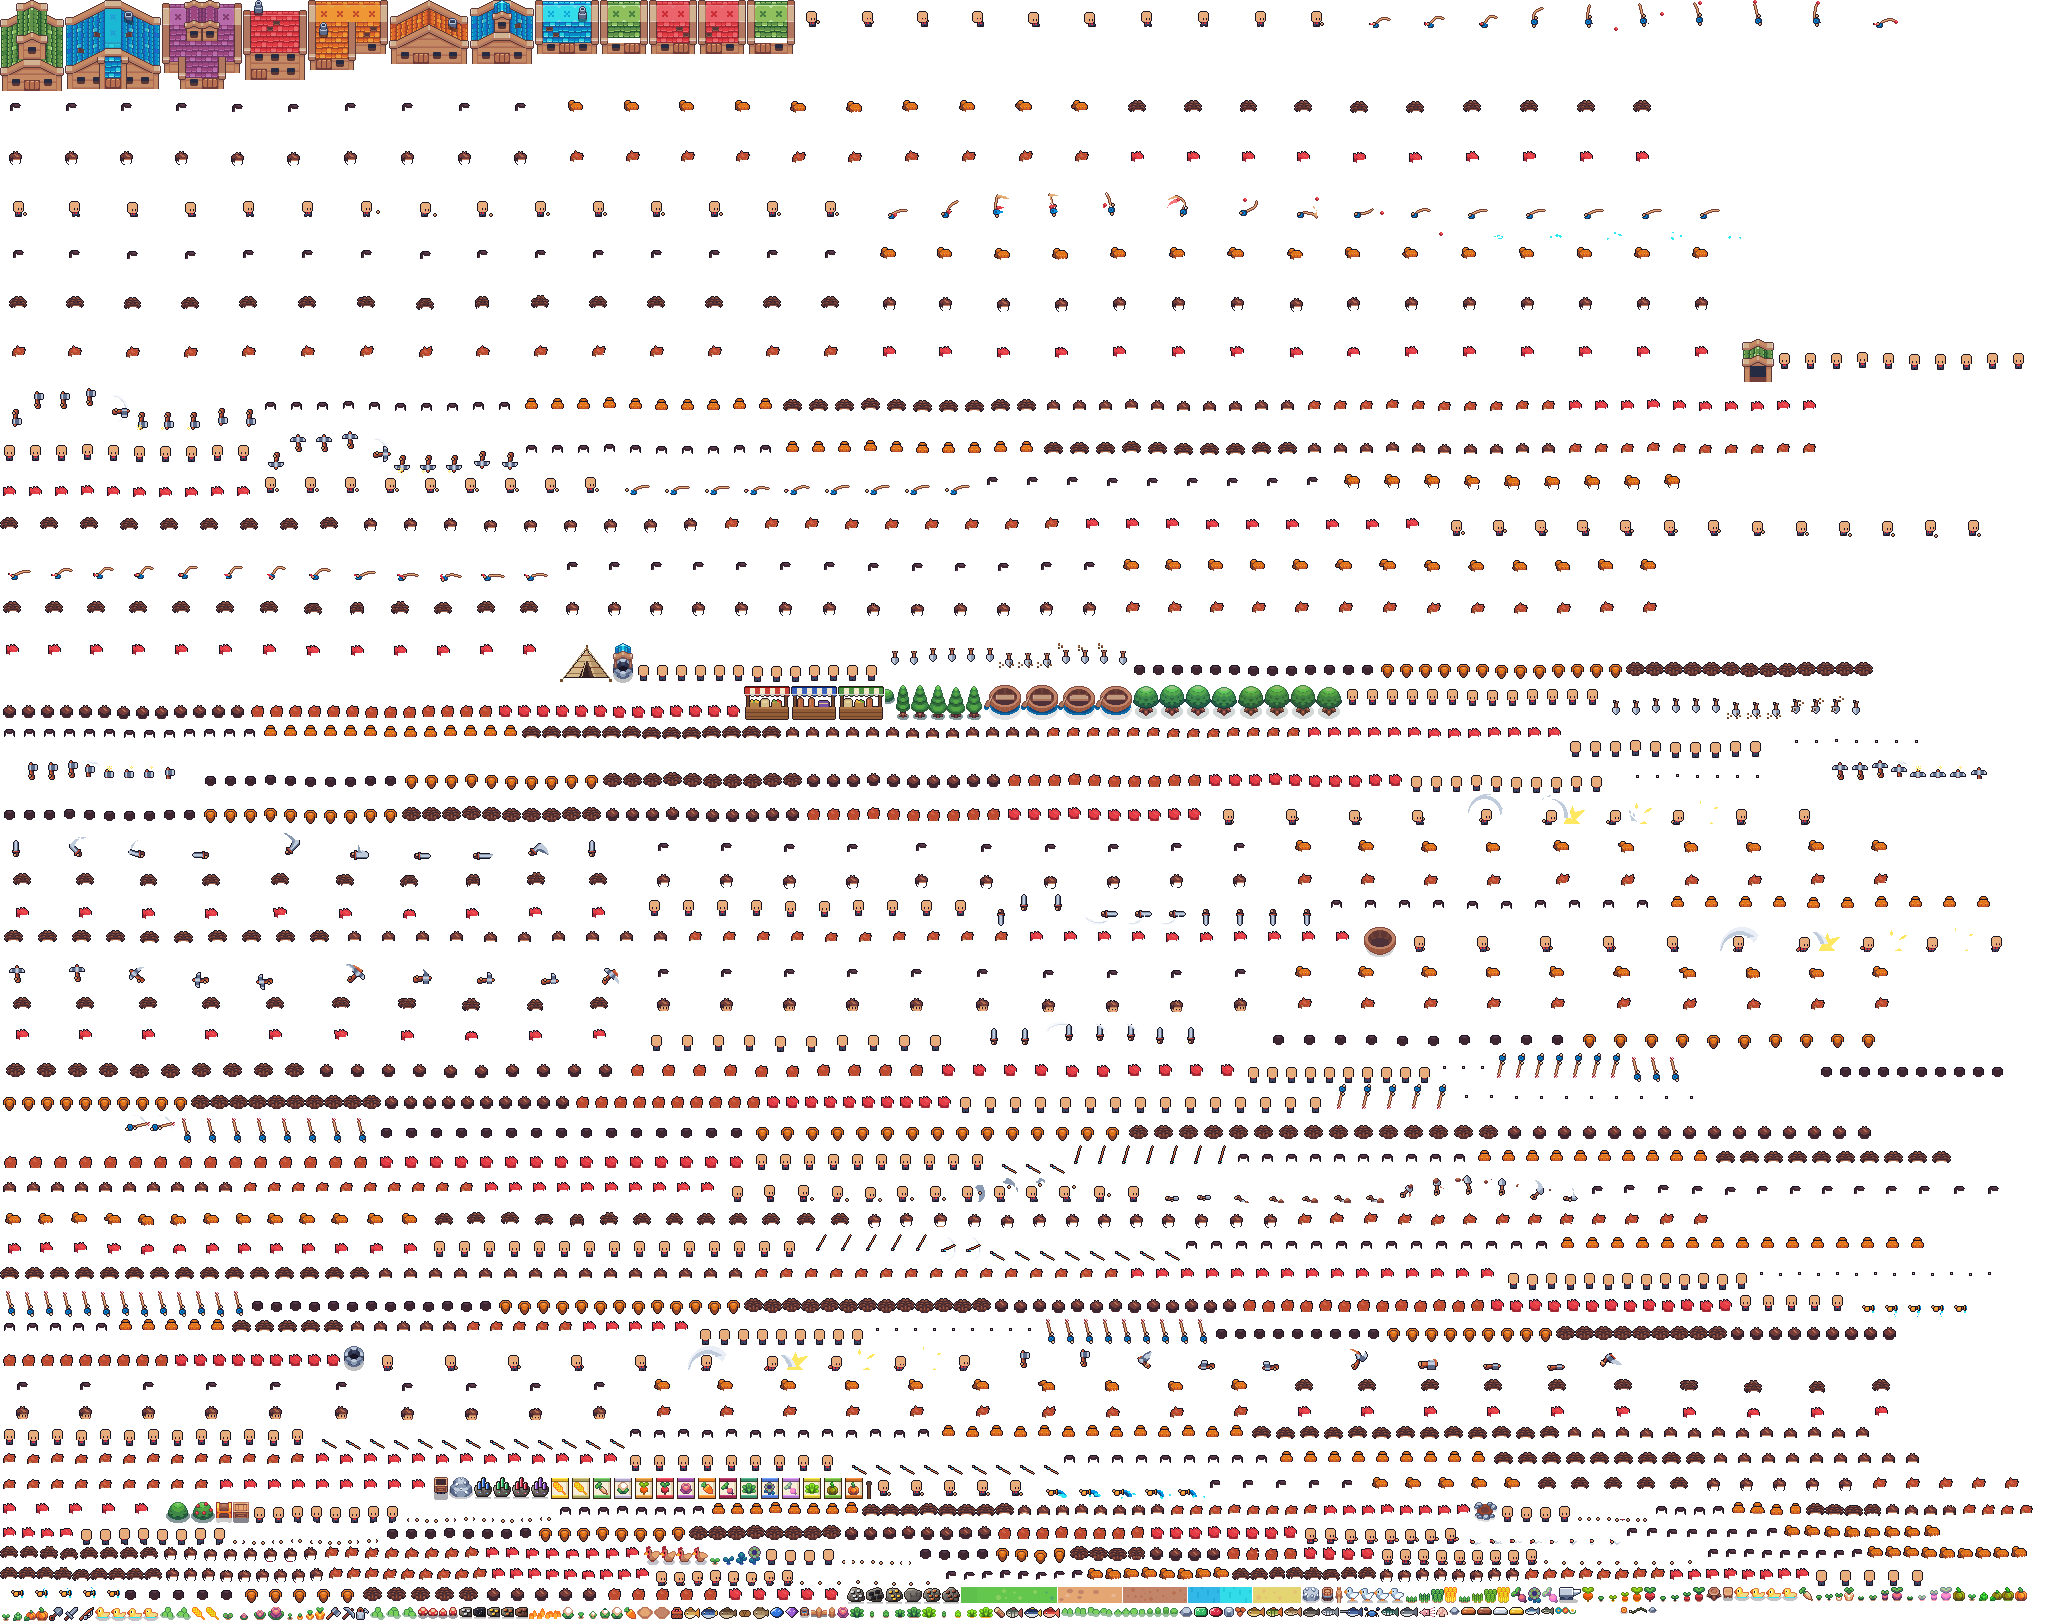
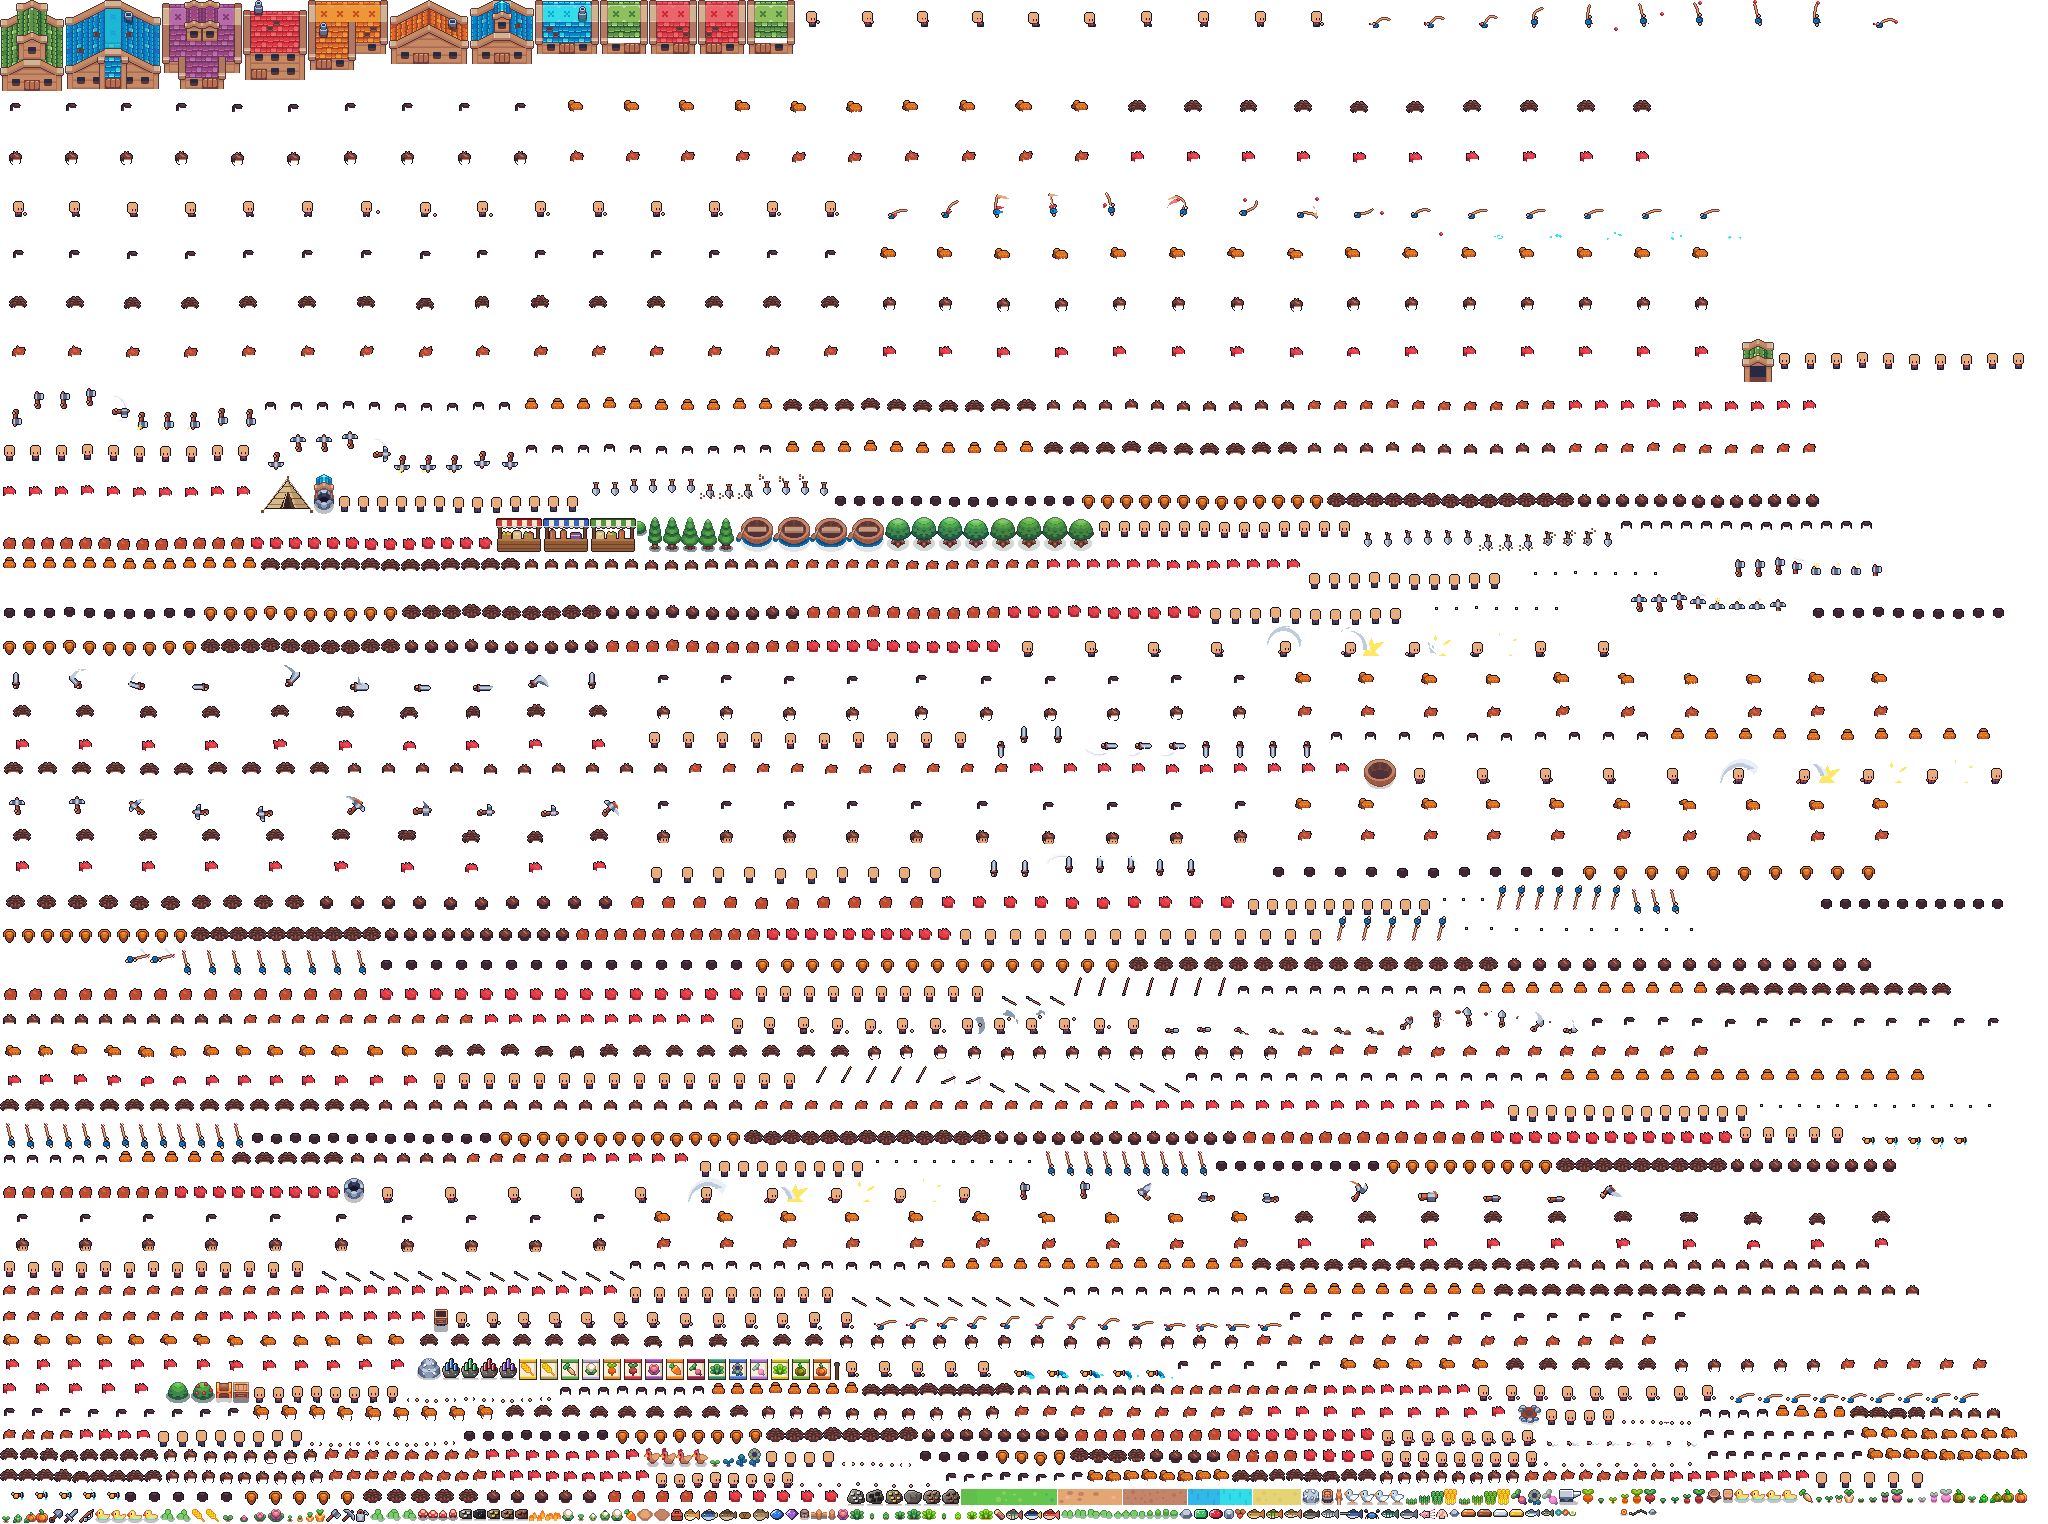
18-day seasons, energy rebalance, fishing line meets the bobber
Claude-Session: https://claude.ai/code/session_01C2kAzymCygSubPfDnKkPKq

diff --git a/public/js/game.js b/public/js/game.js
@@ -1,7 +1,7 @@
 // My Little Promise Land — the game: player, tools, time, HUD, input, saving, main loop.
 'use strict';
 const SAVE_KEY = 'mlpl_save_v1';
-const SEASONS = ['Spring', 'Summer', 'Autumn', 'Winter'], WEEK = ['Sun', 'Mon', 'Tue', 'Wed', 'Thu', 'Fri', 'Sabbath'], DAYS_PER_SEASON = 12;
+const SEASONS = ['Spring', 'Summer', 'Autumn', 'Winter'], WEEK = ['Sun', 'Mon', 'Tue', 'Wed', 'Thu', 'Fri', 'Sabbath'], DAYS_PER_SEASON = 18;
 const ITEMS = {
   axe: { n: 'Axe', icon: 'ic_axe', tool: 'axe', d: 'Chops trees, stumps and branches.' },
   pick: { n: 'Pickaxe', icon: 'ic_pick', tool: 'pick', d: 'Breaks stones and boulders.' },
@@ -11,7 +11,7 @@ const ITEMS = {
   fiber: { n: 'Fiber', icon: 'ic_fiber', price: 1, d: 'Plant fibers from weeds. Used for rope and cloth.' },
 };
 Object.assign(ITEMS, farmItems(), townItems(), fishItems(), mineItems()); Object.assign(ITEMS, barItems(), decorItems(), craftItems(), relicItems());
-const TOOL_ANIM = { axe: 'axe', pick: 'mining', scythe: 'attack', hoe: 'dig', can: 'watering' }, TOOL_COST = { axe: 1, pick: 1, scythe: 0, hoe: 1, can: 1 }, TOOL_SPEED = { dig: 24, watering: 10 };
+const TOOL_ANIM = { axe: 'axe', pick: 'mining', scythe: 'attack', hoe: 'dig', can: 'watering' }, TOOL_COST = { axe: 1.5, pick: 1.5, scythe: 0, hoe: 1, can: 1 }, TOOL_SPEED = { dig: 24, watering: 10 };
 const INV_SIZE = 24, HOTBAR = 8;
 
 let state = null, player = null, look = null, drops = [], parts = [], notes = [], falling = [], birds = [];
@@ -125,13 +125,20 @@ async function action() {
   if (item && item.seed) { const c = findCell(canPlant); if (c) { faceToward(c.x, c.y); plant(c, state.sel) } else { toast('Plant seeds in soil you have dug with the hoe.'); sfx.no() } return }
   const tool = item && item.tool; if (!tool) { sfx.no(); return }
   if (tool === 'rod') { startFishing(); return }
-  let cell = null, cost = TOOL_COST[tool];
+  let cell = null, cost = toolCost(tool);
   if (tool === 'hoe' || tool === 'can') { cell = toolCell(item); if (tool === 'can' && cell && isWater(cell.x, cell.y)) cost = 0 }
   if (state.energy < cost) { toast('Too tired… go to your tent and sleep.'); sfx.no(); return }
   if (player.dir === 'l' || player.dir === 'r') player.side = player.dir === 'l' ? -1 : 1;
   const anim = TOOL_ANIM[tool], n = ATMETA.char.counts[anim];
   player.act = { anim, t: 0, dur: n / (TOOL_SPEED[anim] || 16), hitAt: tool === 'scythe' ? .3 : tool === 'can' ? .4 : .55, hit: false, tool, cell };
   state.energy = Math.max(0, state.energy - cost);
+}
+// energy per swing: axe and pickaxe get 15% lighter with each upgrade; the hoe and watering can work a longer row when upgraded, and each extra tile costs half a point
+function toolCost(tool) {
+  const lv = toolLv(tool) || 1;
+  if (tool === 'axe' || tool === 'pick') return +(TOOL_COST[tool] * Math.pow(.85, lv - 1)).toFixed(2);
+  if (tool === 'hoe' || tool === 'can') return TOOL_COST[tool] + (rowLen(tool) - 1) * .5;
+  return TOOL_COST[tool] || 0;
 }
 function hit(tool, act) {
   const [rdx, rdy] = faceVec(), row = c => Array.from({ length: rowLen(tool) }, (_, k) => ({ x: c.x + rdx * k, y: c.y + rdy * k }));

diff --git a/public/js/jordan.js b/public/js/jordan.js
@@ -202,6 +202,7 @@ let fishing = null;
 const isNight = () => state.time >= 18 * 60 || state.time < 5 * 60;
 // the fishing animations draw the line themselves; it always lands this far from your feet (pixels), to the side you face
 const LINE_END = [29.5, 21];
+const FISH_COST = 5;   // each cast (Stardew's 8 out of 270, scaled to our 150 max)
 function lineSpot(side) {
   const wx = player.x + side * LINE_END[0] / 16, wy = player.y + LINE_END[1] / 16, x = Math.floor(wx), y = Math.floor(wy);
   if (!inb(x, y)) return null; const o = World.objs[idx(x, y)];
@@ -225,10 +226,10 @@ function startFishing() {
   let side = 0, c = ns ? lineSpotNS(ns) : null, dir = c ? ns : null;
   if (!c) { const pref = player.dir === 'l' ? [-1] : player.dir === 'r' ? [1] : [player.side || 1, -(player.side || 1)]; for (const sd of pref) { c = lineSpot(sd); if (c) { side = sd; break } } }
   if (!c) { toast('Stand at the edge of the water, facing it, to cast.'); sfx.no(); return }
-  if (state.energy < 2) { toast('Too tired to fish… go and sleep.'); sfx.no(); return }
+  if (state.energy < FISH_COST) { toast('Too tired to fish… go and sleep.'); sfx.no(); return }
   const where = fishWhere(c);
   if (where === 'sea' && rodLv() < 2) { say('Your line would snap out here in the deep sea. Deep-sea fish need a Sturdy Rod. Peter sells them at the dock.'); sfx.no(); return }
-  state.energy -= 2; if (!dir) { player.side = side; player.dir = side < 0 ? 'l' : 'r' }
+  state.energy -= FISH_COST; if (!dir) { player.side = side; player.dir = side < 0 ? 'l' : 'r' }
   const bait = count('bait') > 0; if (bait) takeItem('bait', 1);
   fishing = { phase: 'cast', t: 0, tx: c.wx, ty: c.wy, dir, where, speed: RODS[rodLv()].bite * (bait ? .5 : 1) }; sfx.swish();
 }
@@ -312,6 +313,12 @@ function closeCatch() { sfx.tap(); stopFishing() }
 // float, splashes, the fish leaping out on the yank, and the "!" (world pixels, drawn with the player)
 function drawFishing(g) {
   const f = fishing; if (!f) return; const p = player, bx = f.tx * 16, by = f.ty * 16;
+  if (!f.dir && ['wait', 'bite', 'game'].includes(f.phase)) {   // facing sideways: the line runs from the rod tip in this exact frame to the bobber
+    const [an, fr] = fishAnim(), L = ATMETA.char.sidetip && ATMETA.char.sidetip[an];
+    if (L) { const tip = L[fr % L.length], x0 = p.x * 16 + tip[0] * (p.side < 0 ? -1 : 1), y0 = p.y * 16 + tip[1], x1 = bx + (f.phase === 'game' ? Math.sin(GT * 9) * 3 : 0), y1 = by + (f.phase === 'bite' ? 2 : 0);
+      g.fillStyle = 'rgba(245,245,245,.9)'; const n = Math.max(4, Math.ceil(Math.hypot(x1 - x0, y1 - y0)));
+      for (let i = 0; i <= n; i++) { const k = i / n, sag = Math.sin(k * Math.PI) * (f.phase === 'game' ? .5 : 3); g.fillRect(Math.round(x0 + (x1 - x0) * k), Math.round(y0 + (y1 - y0) * k + sag), 1, 1) } }
+  }
   if (f.dir) {   // facing up or down the line is drawn here, from the rod tip to the bobber
     const tip = ATMETA.char.rodtip[f.dir], x0 = p.x * 16 + tip[0], y0 = p.y * 16 + tip[1];
     let x1 = bx, y1 = by, show = ['wait', 'bite', 'game'].includes(f.phase);

diff --git a/public/sw.js b/public/sw.js
@@ -1,5 +1,5 @@
 // Network first, fall back to cache so the game still opens offline.
-const CACHE='mlpl-v49';
+const CACHE='mlpl-v50';
 self.addEventListener('install',e=>self.skipWaiting());
 self.addEventListener('activate',e=>e.waitUntil(caches.keys().then(ks=>Promise.all(ks.filter(k=>k!==CACHE).map(k=>caches.delete(k)))).then(()=>self.clients.claim())));
 self.addEventListener('fetch',e=>{if(e.request.method!=='GET')return;e.respondWith(fetch(e.request).then(r=>{const c=r.clone();caches.open(CACHE).then(ca=>ca.put(e.request,c));return r}).catch(()=>caches.match(e.request)))});

diff --git a/tools/build_atlas.py b/tools/build_atlas.py
@@ -284,7 +284,7 @@ HAIRS = ['short hair', 'long hair', 'curly hair', 'bowl hair', 'mop hair', 'spik
 ANIMS = [('idle_s', 'idle-s'), ('idle_n', 'idle-n'), ('idle', 'idle'), ('walk_s', 'walk-s'), ('walk_n', 'walk-n'), ('walk', 'walk'),
          ('axe', 'axe'), ('mining', 'mining'), ('attack', 'attack'), ('doing', 'doing'), ('watering', 'watering'), ('dig', 'dig'),
          ('casting', 'casting'), ('waiting', 'waiting'), ('reeling', 'reeling'), ('caught', 'caught')]
-CH = {}
+CH = {}; SIDE_TIP = {}
 for key, tag in ANIMS:
     t = TAG[tag]; frames = list(range(t[1], t[2]+1))
     layers = {'body': [], 'toolr': [], 'tool': []}
@@ -292,7 +292,13 @@ for key, tag in ANIMS:
     for f in frames:
         layers['body'].append(fr(f, ('base',)))
         layers['toolr'].append(fr(f, ('tools rear',)))
-        layers['tool'].append(fr(f, ('tools',)))
+        tl = fr(f, ('tools',))
+        if key in ('waiting', 'reeling'):   # take the pack's fishing line off (the game draws it from the rod tip to the bobber) and note where the tip is
+            px = tl.load(); whites = [(x, y) for y in range(tl.height) for x in range(tl.width) if px[x, y][3] and px[x, y][:3] == (255, 255, 255)]
+            for q in whites: px[q] = (0, 0, 0, 0)
+            tx, ty = min(whites, key=lambda q: (q[1], q[0])) if whites else (0, 0)
+            SIDE_TIP.setdefault(key, []).append([tx + .5, ty])
+        layers['tool'].append(tl)
         for h in HAIRS:
             if tag in ('walk-s', 'walk-n') and h != 'bowl hair':
                 src = TAG['idle-s' if tag == 'walk-s' else 'idle-n'][1]
@@ -329,7 +335,8 @@ for key, (layers, n) in NS.items():
 fb = fr(TAG['idle-s'][1], ('base',)).getbbox()
 META['char'] = {'feetX': (fb[0]+fb[2])/2, 'feetY': fb[3], 'anims': CH, 'hairs': [h.split()[0] for h in HAIRS],
                 'counts': dict({k: TAG[t][2]-TAG[t][1]+1 for k, t in ANIMS}, **NS_COUNTS),
-                'rodtip': {d: [x - (fb[0]+fb[2])/2, y - fb[3]] for d, (x, y) in RODTIP.items()}}
+                'rodtip': {d: [x - (fb[0]+fb[2])/2, y - fb[3]] for d, (x, y) in RODTIP.items()},
+                'sidetip': {k: [[x - (fb[0]+fb[2])/2, y - fb[3]] for x, y in v] for k, v in SIDE_TIP.items()}}
 
 # ---------- pack ----------
 items = []
